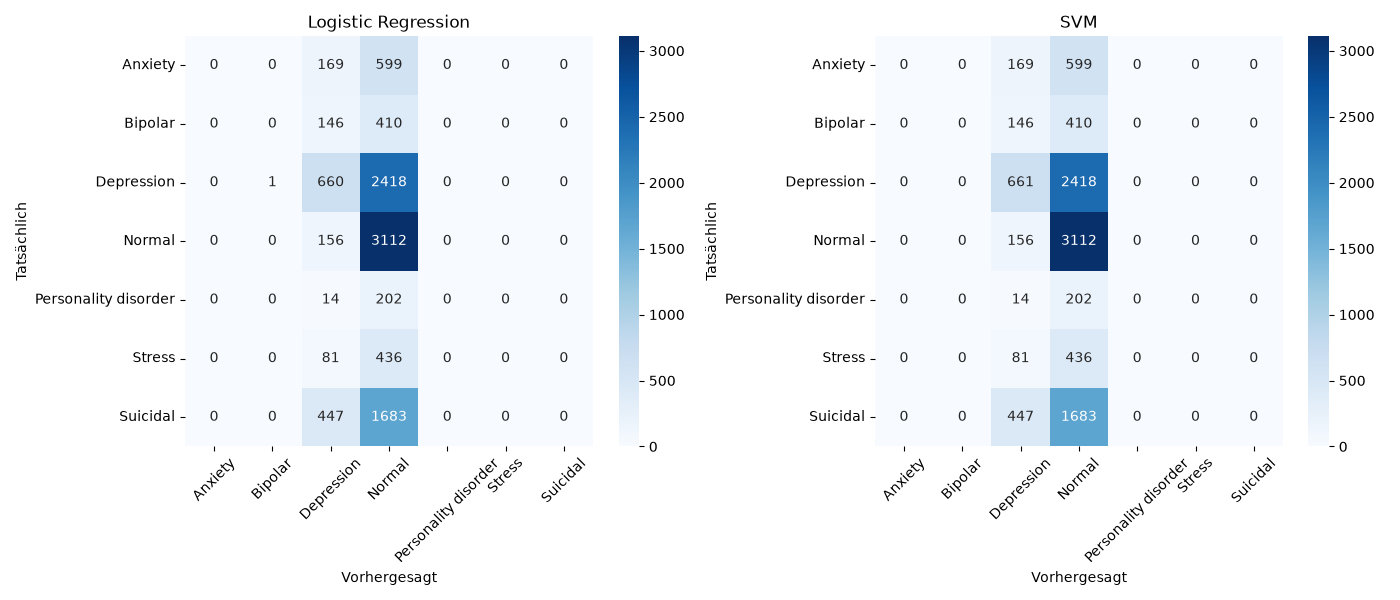
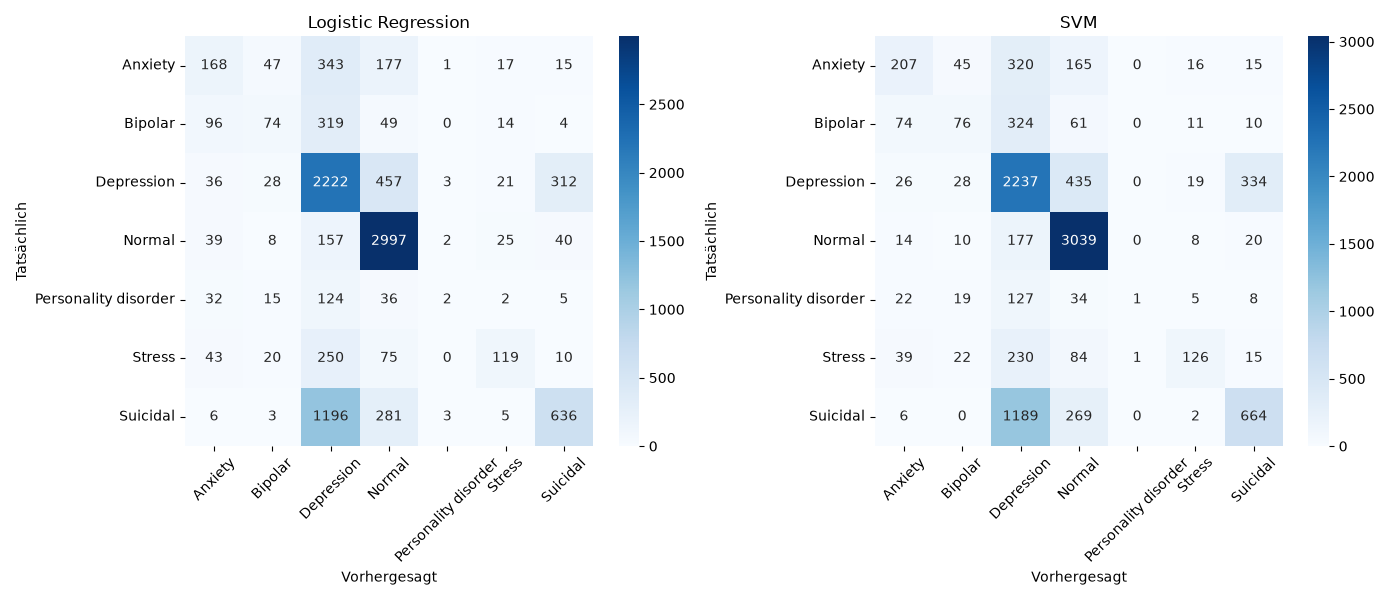
First classification run with the first eval data. Changed the klassifikation_modell_training file a bit to use the real data

diff --git a/feature_builder.py b/feature_builder.py
@@ -1,0 +1,68 @@
+import pandas as pd
+import re
+
+def create_all_features(df0: pd.DataFrame) -> pd.DataFrame:
+    """Berechnet Makro-Metriken und Token-Frequenzen für jedes einzelne Ziel-Wort."""
+    
+    # 1. Wortanzahl (Verhindert Division durch 0, indem 0 zu 1 wird)
+    df0['word_count'] = df0["statement"].str.split().str.len().replace(0, 1)
+    
+    # === MAKRO-FEATURES ===
+    self_pronouns = r'(?i)\b(we|us|ourself|ourselves|i|me|mine|myself|my|i\'ll|we\'ll|i\'m)\b'
+    other_pronouns = r'(?i)\b(you|your|yours|yourself|yourselves|he|she|her|hers|herself|him|his|himself|they|them|their|theirs|themselves|thyself|thine)\b'
+    # Absolutistische Wörter
+    absolutist_words = r'(?i)\b(always|never|absolutely|completely|nothing|everything|entirely|all|nobody|forever|ever|noone|everyone|everybody|i know|impossible|must)\b'
+    uncertain_words = r'(?i)\b(maby|perhaps|possibly|possible|may|might|could|i think|not sure|uncertain)\b'
+    # Zeitliche Orientierung
+    past_words = r'(?i)\b(was|were|had|did|been|could|said|went|ago|last|got|wanted|used|liked)\b'
+    future_words = r"(?i)\b(will|shall|going to|might|worry|worried|anxious|'ll)\b"
+    
+    df0['self_pronouns_count'] = df0["statement"].str.count(self_pronouns)
+    df0['other_pronouns_count'] = df0["statement"].str.count(other_pronouns)
+    df0['all_pronouns_count'] = df0['self_pronouns_count'] + df0['other_pronouns_count']
+    df0['pronoun_dominance'] = ((df0['self_pronouns_count'] - df0['other_pronouns_count']) / df0['all_pronouns_count']).fillna(0)
+    # Absolutismus-Quote (Absolutistische Wörter pro Wort)
+    df0['absolutist_count'] = df0["statement"].str.count(absolutist_words)
+    df0['absolutist_ratio'] = df0['absolutist_count'] / df0['word_count']
+    df0['uncertain_count'] = df0["statement"].str.count(uncertain_words)
+    df0['uncertain_ratio'] = df0['uncertain_count'] / df0['word_count']
+    df0['absolute_uncertain_ratio'] = (df0['absolutist_count'] - df0['uncertain_count']) / (df0['uncertain_count'] + df0['absolutist_count']).fillna(0)
+    # Zeit-Fokus (-1 = Komplett Zukunft, +1 = Komplett Vergangenheit)
+    df0['past_count'] = df0["statement"].str.count(past_words)
+    df0['future_count'] = df0["statement"].str.count(future_words)
+    df0['total_time_words'] = df0['past_count'] + df0['future_count']
+    df0['time_focus_score'] = ((df0['past_count'] - df0['future_count']) / df0['total_time_words']).fillna(0)
+    
+    # Zeichensetzung als Emotions-Barometer (Fragezeichen und Resignation/Pausen)
+    # Der Backslash \ ist wichtig, weil ? und . in Regex Sonderzeichen sind.
+    df0['question_marks_count'] = df0["statement"].str.count(r'\?')
+    df0['ellipses_count'] = df0["statement"].str.count(r'\.\.\.')
+    df0['exclamation_marks_count'] = df0["statement"].str.count(r'\!')
+    
+    self_pr_list = ["we", "us", "ourself", "i", "me", "mine", "myself", "my", "i'll", "we'll", "i'm"]
+    other_pr_list = ["you", "your", "yours", "yourself", "yourselves", "he", "she", "her", "hers", "herself", "him", "his", "himself", "they", "them", "their", "their's", "themselves"]
+    
+  
+    absolutist_words = ["always", "never", "completely", "nothing", "everything", "all", "ever", "everyone", "i know", "constantly", "every", "full", "done", "finish", "end"]
+    uncertain_words = ["maybe", "might", "could", "i think", "not sure", "weird", "can't"]
+    negative_words = ["die", "kill", "pain", "hurt", "cry", "sad", "alone", "lonely", "hate", "bad", "tired", "worse", "hopeless", "empty", "scared", "disturbed", "nuts", "dead", "psycho", "mad", "insane", "freak", "scary", "stress", "embarrassed", "embarrassing", "frustrating", "frustrated", "isolated", "isolation", "isolating", "mental", "ill", "brain", "forced", "demand", "abuse", "sexual", "sex", "life"]
+
+    all_target_words = self_pr_list + other_pr_list + absolutist_words + uncertain_words + negative_words
+
+    new_features = {}
+    word_count = df0["statement"].str.split().str.len().replace(0, 1)
+    
+    seen_features = set()
+    for word in all_target_words:
+        clean_name = f"freq_{word.replace(' ', '_').replace(chr(39), '')}"
+        if clean_name not in seen_features:
+            pattern = rf'(?i)\b{word}\b'
+            # Hier nur in das Dict schreiben
+            new_features[clean_name] = df0["statement"].str.count(pattern) / word_count
+            seen_features.add(clean_name)
+            
+    # 2. EINMALIGES JOINEN (Das löst die Fragmentierung)
+    df_new_features = pd.DataFrame(new_features)
+    df0 = pd.concat([df0, df_new_features], axis=1)
+    
+    return df0.fillna(0), list(seen_features)

diff --git a/main.py b/main.py
@@ -10,16 +10,19 @@ data_path = os.path.join(path, "Datasets")
 os.chdir(path)
 
 # Explorative Daten analyse:
-def expl_data_seb():
+def expl_data():
     """Verarbeitet die Data und returned einen Dataframe"""
-    import explorativ_data_analysis_copy as eda
+    #import explorativ_data_analysis_copy as eda
     #import data_loading as dl
     import data_clean as dc
     #import feature_corralation_test as fct
+    import feature_builder as fb
+    import Klassifikation_Modell_Training as KMT
     df0 = dc.clean_data()
 
     #fct.correlation_test(eda.expl_data(df0))
-    eda.absolute_uncertain(df0)
+    #df0, all_target_words = fb.create_all_features(df0)
+    #KMT.train_testdaten_split(df0)
     #eda.pronouns(df0)
 
-expl_data_seb()
+expl_data()

diff --git a/explorativ_data_analysis_copy.py b/explorativ_data_analysis_copy.py
@@ -405,7 +405,7 @@ def pronouns(df0:pd.DataFrame):
     path = os.getcwd()
     output_path = os.path.join(path, "Output")
     os.chdir(output_path)
-    min_statement_len = 100 #!!!!ACHTUNG aktuell werden nur statements mit dieser Anzahl genommen und alle anderen aussortiert!!!!
+    min_statement_len = 50 #!!!!ACHTUNG aktuell werden nur statements mit dieser Anzahl genommen und alle anderen aussortiert!!!!
     
     self_pronouns = r'(?i)\b(we|us|ourselves|i|me|mine|myself|my)\b'
     other_pronouns = r'(?i)\b(you|your|yours|yourself|yourselves|he|she|her|hers|herself|him|his|himself|they|them|their|theirs|themselves|thyself|thine)\b'